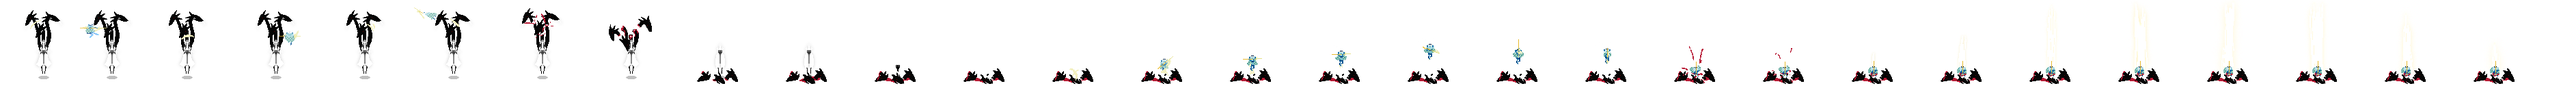
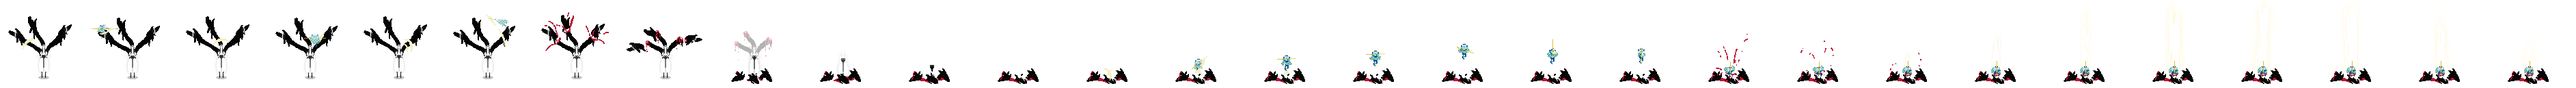
crab terminated animation implemented

Changed region(s): [[0.031, 0.5231, 0.9931, 0.9538], [0.0, 0.1231, 0.3103, 0.6154]]

diff --git a/core/src/main/java/edu/cornell/jade/seasthethrone/gamemodel/boss/CrabBossModel.java b/core/src/main/java/edu/cornell/jade/seasthethrone/gamemodel/boss/CrabBossModel.java
@@ -1,8 +1,14 @@
 package edu.cornell.jade.seasthethrone.gamemodel.boss;
 
+import edu.cornell.jade.seasthethrone.util.FilmStrip;
+
 public class CrabBossModel extends BossModel{
+  private FilmStrip terminatedAnimation;
+  private boolean isTerminated;
   public CrabBossModel(Builder builder){
     super(builder);
+    terminatedAnimation = builder.terminatedAnimation;
+    isTerminated = false;
   }
   public void executeBoss() {
     setFrameNumber(0);
@@ -15,6 +21,9 @@ public class CrabBossModel extends BossModel{
     if (isDead()) {
       if (isExecute) {
         filmStrip = deathAnimation;
+      }
+      else if (finishExecute){
+        filmStrip = terminatedAnimation;
       }
       else {
         filmStrip = falloverAnimation;
@@ -40,8 +49,12 @@ public class CrabBossModel extends BossModel{
         if (executeCount <=0){
           finishExecute = true;
           isExecute = false;
+          isTerminated = true;
           setFrameNumber(0);
         }
+      }
+      else if (isTerminated){
+        setFrameNumber(0);
       }
       else {
         if (frameCounter % frameDelay == 0 && getFrameNumber() < getFramesInAnimation() - 1) {

diff --git a/core/src/main/java/edu/cornell/jade/seasthethrone/GameplayController.java b/core/src/main/java/edu/cornell/jade/seasthethrone/GameplayController.java
@@ -389,7 +389,12 @@ public class GameplayController implements Screen {
         bossBuilder.setTransformAnimation(new Texture("bosses/" + assetName + "/transform.png"))
             .setFinalAttackAnimation(new Texture("bosses/" + assetName + "/final_attack.png"))
             .setFinalShootAnimation(new Texture("bosses/" + assetName + "/final_shoot.png"))
-            .setFinalGetHitAnimation(new Texture("bosses/" + assetName + "/final_hurt.png"));
+            .setFinalGetHitAnimation(new Texture("bosses/" + assetName + "/final_hurt.png"))
+            .setCatchBreathAnimation(new Texture("bosses/" + assetName + "/catch_breath.png"))
+            .setTerminatedAnimation(new Texture("bosses/" + assetName + "/terminated.png"));
+      }
+      if (name.contains("crab")){
+        bossBuilder.setTerminatedAnimation(new Texture("bosses/" + assetName + "/terminated.png"));
       }
       BossModel boss = bossBuilder.build();
       BossController bossController = bossBuilder.buildController(boss, player, fishBulletBuilder, physicsEngine);

diff --git a/core/src/main/java/edu/cornell/jade/seasthethrone/gamemodel/boss/BossModel.java b/core/src/main/java/edu/cornell/jade/seasthethrone/gamemodel/boss/BossModel.java
@@ -404,6 +404,8 @@ public class BossModel extends EnemyModel implements Renderable {
     FilmStrip finalAttackAnimation;
     FilmStrip finalGetHitAnimation;
     FilmStrip finalShootAnimation;
+    FilmStrip catchBreathAnimation;
+    FilmStrip terminatedAnimation;
 
 
     /** The number of frames between animation updates */
@@ -568,8 +570,16 @@ public class BossModel extends EnemyModel implements Renderable {
       finalShootAnimation = new FilmStrip(texture, 1, width / frameSize);
       return this;
     }
-
-
+    public Builder setCatchBreathAnimation (Texture texture){
+      int width = texture.getWidth();
+      catchBreathAnimation = new FilmStrip(texture, 1, width / frameSize);
+      return this;
+    }
+    public Builder setTerminatedAnimation (Texture texture){
+      int width = texture.getWidth();
+      terminatedAnimation = new FilmStrip(texture, 1, 1);
+      return this;
+    }
 
     public Builder setFrameDelay(int frameDelay) {
       this.frameDelay = frameDelay;
